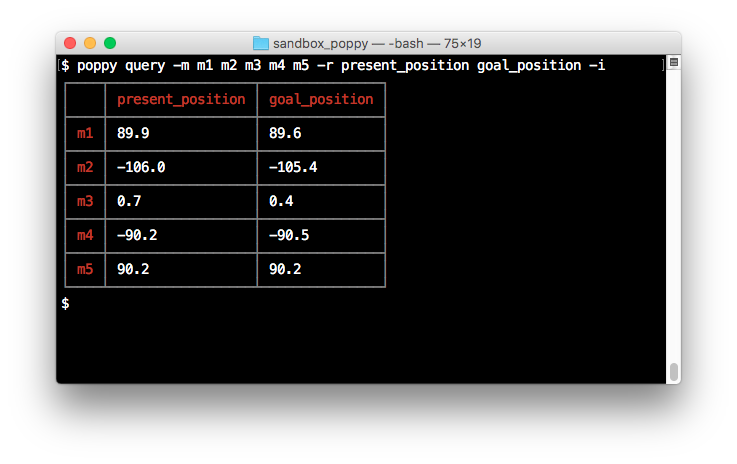
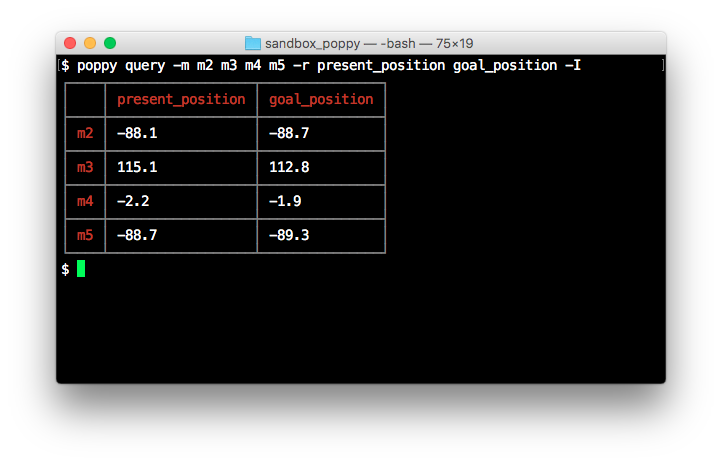
CLI: -I options always active (querying)

Changed region(s): [[0.0609, 0.0603, 0.8227, 0.8147], [0.8837, 0.1207, 0.9446, 0.8448]]

diff --git a/bin/query-commands.js b/bin/query-commands.js
@@ -74,7 +74,7 @@ const query = async (argv, poppy) => {
     // ...And display them
     //
 
-    let display = argv.i ?
+    let display = argv['I'] ?
         {
             rows: motors, 
             cols: registers,
@@ -122,7 +122,8 @@ const _query = async (poppy, motors, registers) => {
 
     let res = [];
 
-    for(let motor of motors) {        
+    await Promise.all( motors.map( async motor => {
+    //for(let motor of motors) {        
         let data = (await Promise.all(
             registers.map( async register => 
                 await poppy[motor].get(register)
@@ -132,7 +133,7 @@ const _query = async (poppy, motors, registers) => {
             {motor}
         );
         res.push(data);
-    }
+    }));
 
     return res;
   }

diff --git a/README.md b/README.md
@@ -140,11 +140,11 @@ will return data about all registers 'of interest' for all motors.
 Adding the flag -h will display help for optional options:
 - -m to select the motor(s) to query,
 - -r to select the register(s) to query,
-- -i to invert the output table form register/motor to motor/register.
+- -I to invert the output table form register/motor to motor/register.
 
 As example the following line will only display the registry values for 'present_position' and 'goal_position' of the motors m2 to m5:
 ```shell
-poppy query -m m2 m3 m4 m5 -r present_position goal_position -i
+poppy query -m m2 m3 m4 m5 -r present_position goal_position -I
 ```
 ![Querying command 2](./doc/query_1.png "Querying command 2")
 
